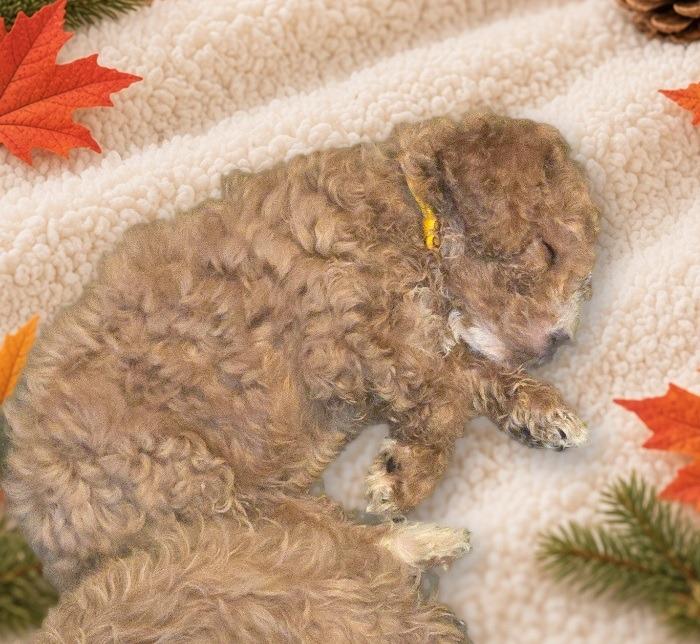
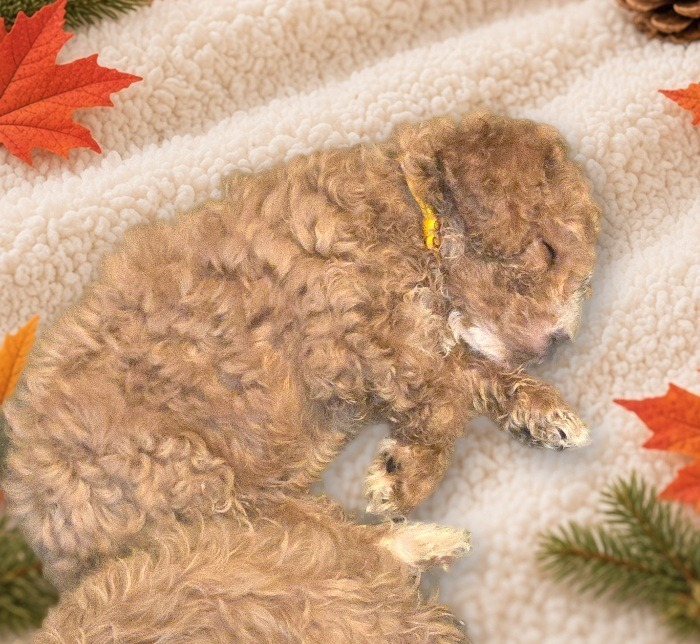
Lotus gallery: warm color match

diff --git a/goldendoodle-puppies-florida/index.html b/goldendoodle-puppies-florida/index.html
@@ -17,7 +17,7 @@
       href="https://fonts.googleapis.com/css2?family=Fraunces:opsz,wght@9..144,500;9..144,700&family=Sora:wght@400;500;600&display=swap"
       rel="stylesheet"
     />
-    <link rel="stylesheet" href="../styles.css?v=gal1012c" />
+    <link rel="stylesheet" href="../styles.css?v=gal1012d" />
     <script async src="https://www.googletagmanager.com/gtag/js?id=G-276VDLEJ9T"></script>
     <script>
       window.dataLayer = window.dataLayer || [];
@@ -109,7 +109,7 @@
       <span class="footer-note"><a href="../">Full site</a> · <a href="../privacy.html">Privacy</a></span>
     </footer>
 
-    <script src="../data/litter.js?v=gal1012c"></script>
+    <script src="../data/litter.js?v=gal1012d"></script>
     <script>
       (() => {
         const d = window.SANDIES;

diff --git a/index.html b/index.html
@@ -25,7 +25,7 @@
       href="https://fonts.googleapis.com/css2?family=Fraunces:opsz,wght@9..144,500;9..144,700&family=Sora:wght@400;500;600&display=swap"
       rel="stylesheet"
     />
-    <link rel="stylesheet" href="styles.css?v=gal1012c" />
+    <link rel="stylesheet" href="styles.css?v=gal1012d" />
     <script async src="https://www.googletagmanager.com/gtag/js?id=G-276VDLEJ9T"></script>
     <script>
       window.dataLayer = window.dataLayer || [];
@@ -340,7 +340,7 @@
       <div class="dialog-body" id="dialogBody"></div>
     </dialog>
 
-    <script src="data/litter.js?v=gal1012c"></script>
-    <script src="app.js?v=gal1012c"></script>
+    <script src="data/litter.js?v=gal1012d"></script>
+    <script src="app.js?v=gal1012d"></script>
   </body>
 </html>

diff --git a/data/litter.js b/data/litter.js
@@ -296,7 +296,7 @@ window.SANDIES = {
       size: "~30–40 lb adult estimate",
       image: "assets/pups/litter2/profile/lotus.jpg?v=p1003",
       status: "available",
-      gallery: [1, 2, 3, 4, 5].map((n) => `assets/pups/litter2/gallery/lotus/0${n}.jpg?v=2`),
+      gallery: [1, 2, 3, 4, 5].map((n) => `assets/pups/litter2/gallery/lotus/0${n}.jpg?v=3`),
       blurb:
         "Warm apricot curls, cream muzzle, and a soft curious head tilt.",
     },
